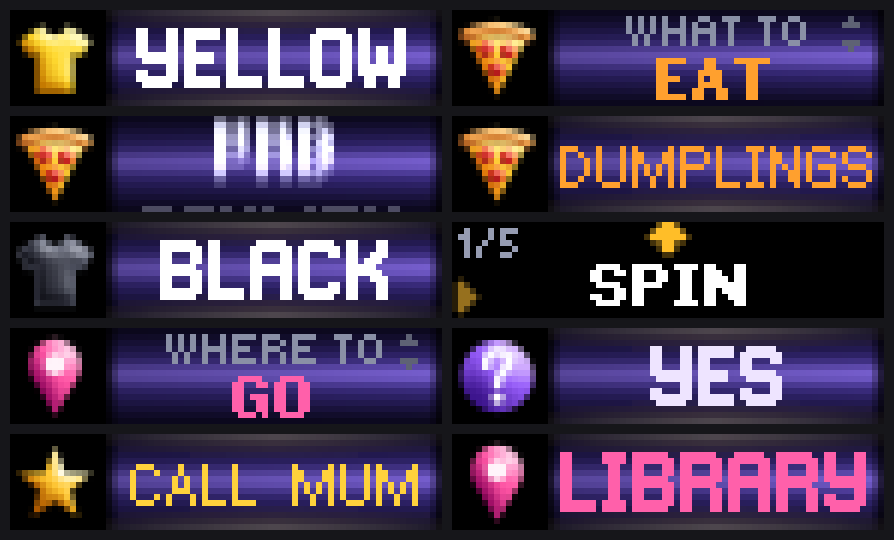
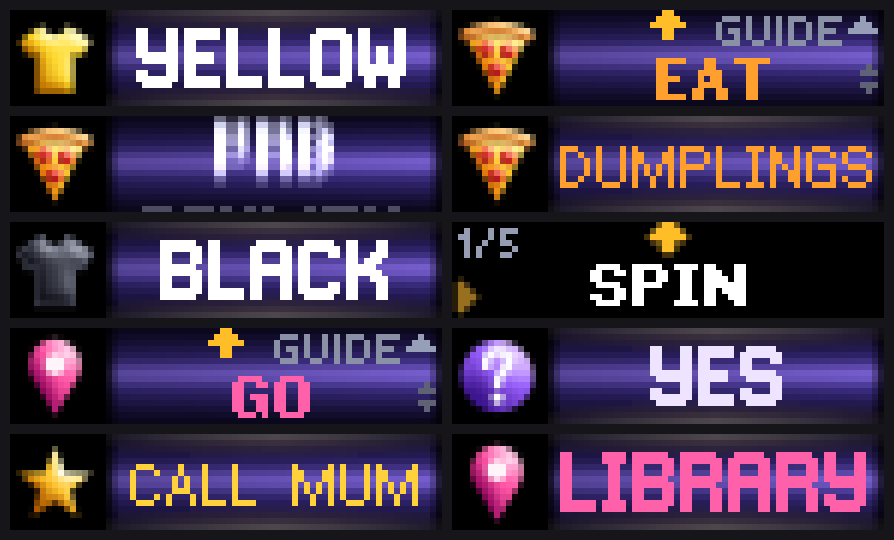
Pick For Me: main screen with Start to spin and the knob for the guide

diff --git a/pick_for_me/src/main.js b/pick_for_me/src/main.js
@@ -209,6 +209,7 @@ el.timeout = 30;
 return wire(el);
 }
 let bookAt = -1, bookBacks = 0;     // the page on show (-1: no guide); Back presses the guide has taken
+let bookShut = false;               // Back on the first page: the book is to be closed
 const pageEl = (i, on) => film("k_p" + i, "guide_" + i, on ? 0 : OFF, 0, 20, true);
 function bookEls(at) {
 const els = [];
@@ -217,13 +218,14 @@ return els;
 }
 function bookBack() {               // (for onBack) true: the guide has taken the key
 if (bookAt < 0) return false;
-if (bookAt === 0) return false;   // on the first page Back leaves the app
+if (bookAt === 0) bookShut = true;               // on the first page Back closes the book
 bookBacks++;
 return true;
 }
 async function book(under) {
 if (!live.get("k_p0")) await put(bookEls(-1));
 bookAt = 0;
+bookShut = false;
 onPage = "book";
 await put([pageEl(0, true)]);
 if (under) await wipe([under]);
@@ -235,7 +237,7 @@ await nap(50000);
 const steps = ctl.n + ctl.turn - bookBacks, any = ctl.n || ctl.turn || bookBacks;
 ctl.n = ctl.turn = bookBacks = 0;
 ctl.ok = ctl.start = false;
-if (stopped) break;
+if (stopped || bookShut) break;
 if (!any) {
 await put(bookEls(bookAt));                  // nothing was pressed: the pictures are only kept alive
 continue;
@@ -280,7 +282,7 @@ if (wake) wake();
 const GREY = "#8A90A6FF", PASS = "#C4C8D8FF", BLACK = "#000000FF";
 const DX = 16, MID = 44;            // the drum's left column; the column words are centred on
 const FILE = "/ext/data/pick.json";
-const UPDOWN = "! XPM2\n5 6 2 1\n. c none\na c #5E6274\n..a..\n.aaa.\n.....\n.....\n.aaa.\n..a..";
+const UPDOWN = "! XPM2\n3 5 2 1\n. c none\na c #5E6274\n.a.\naaa\n...\naaa\n.a.";      // "turn": beside the list's name
 let cats = [], at = 0, res = null;  // the lists in use, the one on show, its answer (null: its title)
 let last = {}, kept = "", mine = "", backs = 0, rigAt = 0, dirty = false;
 let resetOn = null;                 // the setting "Start over" as it stands (null: not answered)
@@ -356,7 +358,7 @@ await save();
 }
 async function guide(under) {
 await book(under);
-if (stopped) return;
+if (stopped || read) return;
 read = true;
 await save();
 }
@@ -376,7 +378,11 @@ return el;
 }
 const drum = (dy) => film("p_dr", "drum", DX, dy - 1, 1);
 const reel = () => film("p_f", "spin", DX, 0, 5, true);
-const title1 = (dy) => small("p_t1", cats[at].top, MID, dy - 1, GREY, "top_mid");                 // rows 1-5
+const title1 = (dy) => small("p_t1", "GUIDE", 55, dy - 1, GREY, "top_mid");                       // rows 1-5, columns 44-64
+const MARK = "! XPM2\n6 5 2 1\n. c none\na c #FFBE28\n..aa..\n.aaaa.\naaaaaa\n..aa..\n..aa..";
+const CUE = "! XPM2\n5 3 2 1\n. c none\na c #969EB8\n..a..\n.aaa.\naaaaa";
+const cues = () => [{ id: "p_st", type: "xpmbitmap", x: 33, y: 0, align: "top_left", timeout: STILL, data: MARK, z_index: 3 },
+{ id: "p_ga", type: "xpmbitmap", x: 66, y: 1, align: "top_left", timeout: STILL, data: CUE, z_index: 3 }];
 const title2 = (dy) => text("p_t2", cats[at].name, "bold", MID, 6 + dy, cats[at].accent, "top_mid", 4);   // rows 8-14
 function icon(dy, word) {           // the list's icon; for an answer of WEAR, a shirt of that colour
 const name = word && cats[at].id === "WEAR" && D.wear.indexOf(word) >= 0 ? "w_" + word.toLowerCase() : "i_" + cats[at].id.toLowerCase();
@@ -392,8 +398,9 @@ return text("p_res", w, f[0], MID, f[1] + dy, cats[at].id === "WEAR" ? WHITE : c
 }
 function pageEls() {
 const els = [rect("p_bg", 0, 0, 72, 16, BLACK, 0), drum(0), icon(0, res)];
-if (res === null) els.push(title1(0), title2(0), { id: "p_ud", type: "xpmbitmap", x: 64, y: 1, align: "top_left", timeout: STILL, data: UPDOWN, z_index: 3 });
+if (res === null) els.push(title1(0), title2(0), { id: "p_ud", type: "xpmbitmap", x: 68, y: 9, align: "top_left", timeout: STILL, data: UPDOWN, z_index: 3 }, ...cues());
 else els.push(film("p_g", "glow", DX, 0, 2), answer(res, 0));
+for (let i = 0; i < D.guide; i++) els.push(pageEl(i, false));
 return els;
 }
 function clear(ids) {
@@ -438,7 +445,7 @@ await put([reel()]);
 await sleep(750);
 if (stopped) return;
 let t0 = Date.now();
-const hidden = clear(["p_t1", "p_t2", "p_ud", "p_res", "p_g", "p_f"]);
+const hidden = clear(["p_t1", "p_t2", "p_ud", "p_st", "p_ga", "p_res", "p_g", "p_f"]);
 await put([passing(0, pass[0], -10)].concat(hidden));
 await until(t0 + 50);
 await put([passing(0, pass[0], -3)]);
@@ -482,7 +489,7 @@ res = null;
 dirty = true;
 if (ctl.turn) return;
 const d = dir > 0 ? 1 : -1;
-await put(clear(["p_res", "p_g", "p_ud"]).concat([title1(-7 * d), title2(-7 * d), icon(-3 * d, null)]));
+await put(clear(["p_res", "p_g", "p_ud", "p_st", "p_ga"]).concat([title1(-7 * d), title2(-7 * d), icon(-3 * d, null)]));
 await sleep(45);
 await put([title1(d), title2(d), icon(d, null)]);
 await sleep(55);
@@ -499,7 +506,8 @@ await draw("page", pageEls());
 await nap(dirty ? 1500 : IDLE);                  // (the list on show is kept once the knob has rested a moment)
 const k = keys();
 if (k.turn) return turnTo(k.turn > 0 ? 1 : -1);
-if (k.start || k.ok) return spin();
+if (k.ok && res === null) return guide("");      // on the main screen OK opens the guide; closing it leads back here
+if (k.start || k.ok) return spin();              // Start spins; on an answer OK spins again too
 if (dirty) save();
 }
 const IDLE = 5000;                  // the page at rest looks at the settings again this often (nothing is drawn for that)
@@ -527,7 +535,7 @@ await load();
 await readSettings();
 const fresh = startOverAsked();
 if (fresh) await startOver();
-if (!read && !fresh) await put(bookEls(-1));      // (first use: the guide's pages are made now, off-screen)
+if (!fresh) await put(bookEls(-1));              // (the guide's pages are made now, off-screen, with the mark over them)
 await until(t0 + SPLASH_MS);
 if (stopped) return;
 let under = true;                                // the mark is still on the screen

diff --git a/pick_for_me/CATALOG.md b/pick_for_me/CATALOG.md
@@ -25,9 +25,9 @@ Cannot decide? A reel picks for you. Choose a list, spin, and the reel slows dow
 ## Controls
 
 - The controls by their names: Start is the big button on top, OK is a press of the knob, Turn is turning the knob, Back is the Back button.
-- The first time you open the app, a short guide shows them: five numbered pages, one control on each, with what it does in large letters under an arrow that points at it. Start, OK or a turn forward goes to the next page; a turn back or Back goes to the page before (Back on the first page leaves the app). On the last page any key starts the app, and does nothing else. One page says that My list is filled in the settings. The guide does not come again by itself; Start over in the settings brings it back.
-- Turn the knob: the next or the previous list.
-- Start or OK: spin. Press again for another answer.
+- The app opens on its main screen, the list you were on. Start spins. Turn the knob for the next or the previous list. OK opens the guide. Back leaves the app.
+- The guide: five numbered pages, one control on each, with what it does in large letters under an arrow that points at it. Start, OK or a turn forward goes to the next page; a turn back or Back goes to the page before. Any key on the last page, or Back on the first, closes it and leads back to the main screen. One page says that My list is filled in the settings. The first time you open the app the guide opens by itself.
+- On an answer: Start or OK spins again. Turn the knob to go back to the lists.
 - Back: leave the app.
 
 ## Settings

diff --git a/pick_for_me/README.md b/pick_for_me/README.md
@@ -29,9 +29,9 @@ Cannot decide? A reel picks for you. Choose a list, spin, and the reel slows dow
 ## Controls
 
 - The controls by their names: Start is the big button on top, OK is a press of the knob, Turn is turning the knob, Back is the Back button.
-- The first time you open the app, a short guide shows them: five numbered pages, one control on each, with what it does in large letters under an arrow that points at it. Start, OK or a turn forward goes to the next page; a turn back or Back goes to the page before (Back on the first page leaves the app). On the last page any key starts the app, and does nothing else. One page says that My list is filled in the settings. The guide does not come again by itself; Start over in the settings brings it back.
-- Turn the knob: the next or the previous list.
-- Start or OK: spin. Press again for another answer.
+- The app opens on its main screen, the list you were on. Start spins. Turn the knob for the next or the previous list. OK opens the guide. Back leaves the app.
+- The guide: five numbered pages, one control on each, with what it does in large letters under an arrow that points at it. Start, OK or a turn forward goes to the next page; a turn back or Back goes to the page before. Any key on the last page, or Back on the first, closes it and leads back to the main screen. One page says that My list is filled in the settings. The first time you open the app the guide opens by itself.
+- On an answer: Start or OK spins again. Turn the knob to go back to the lists.
 - Back: leave the app.
 
 ## Settings
